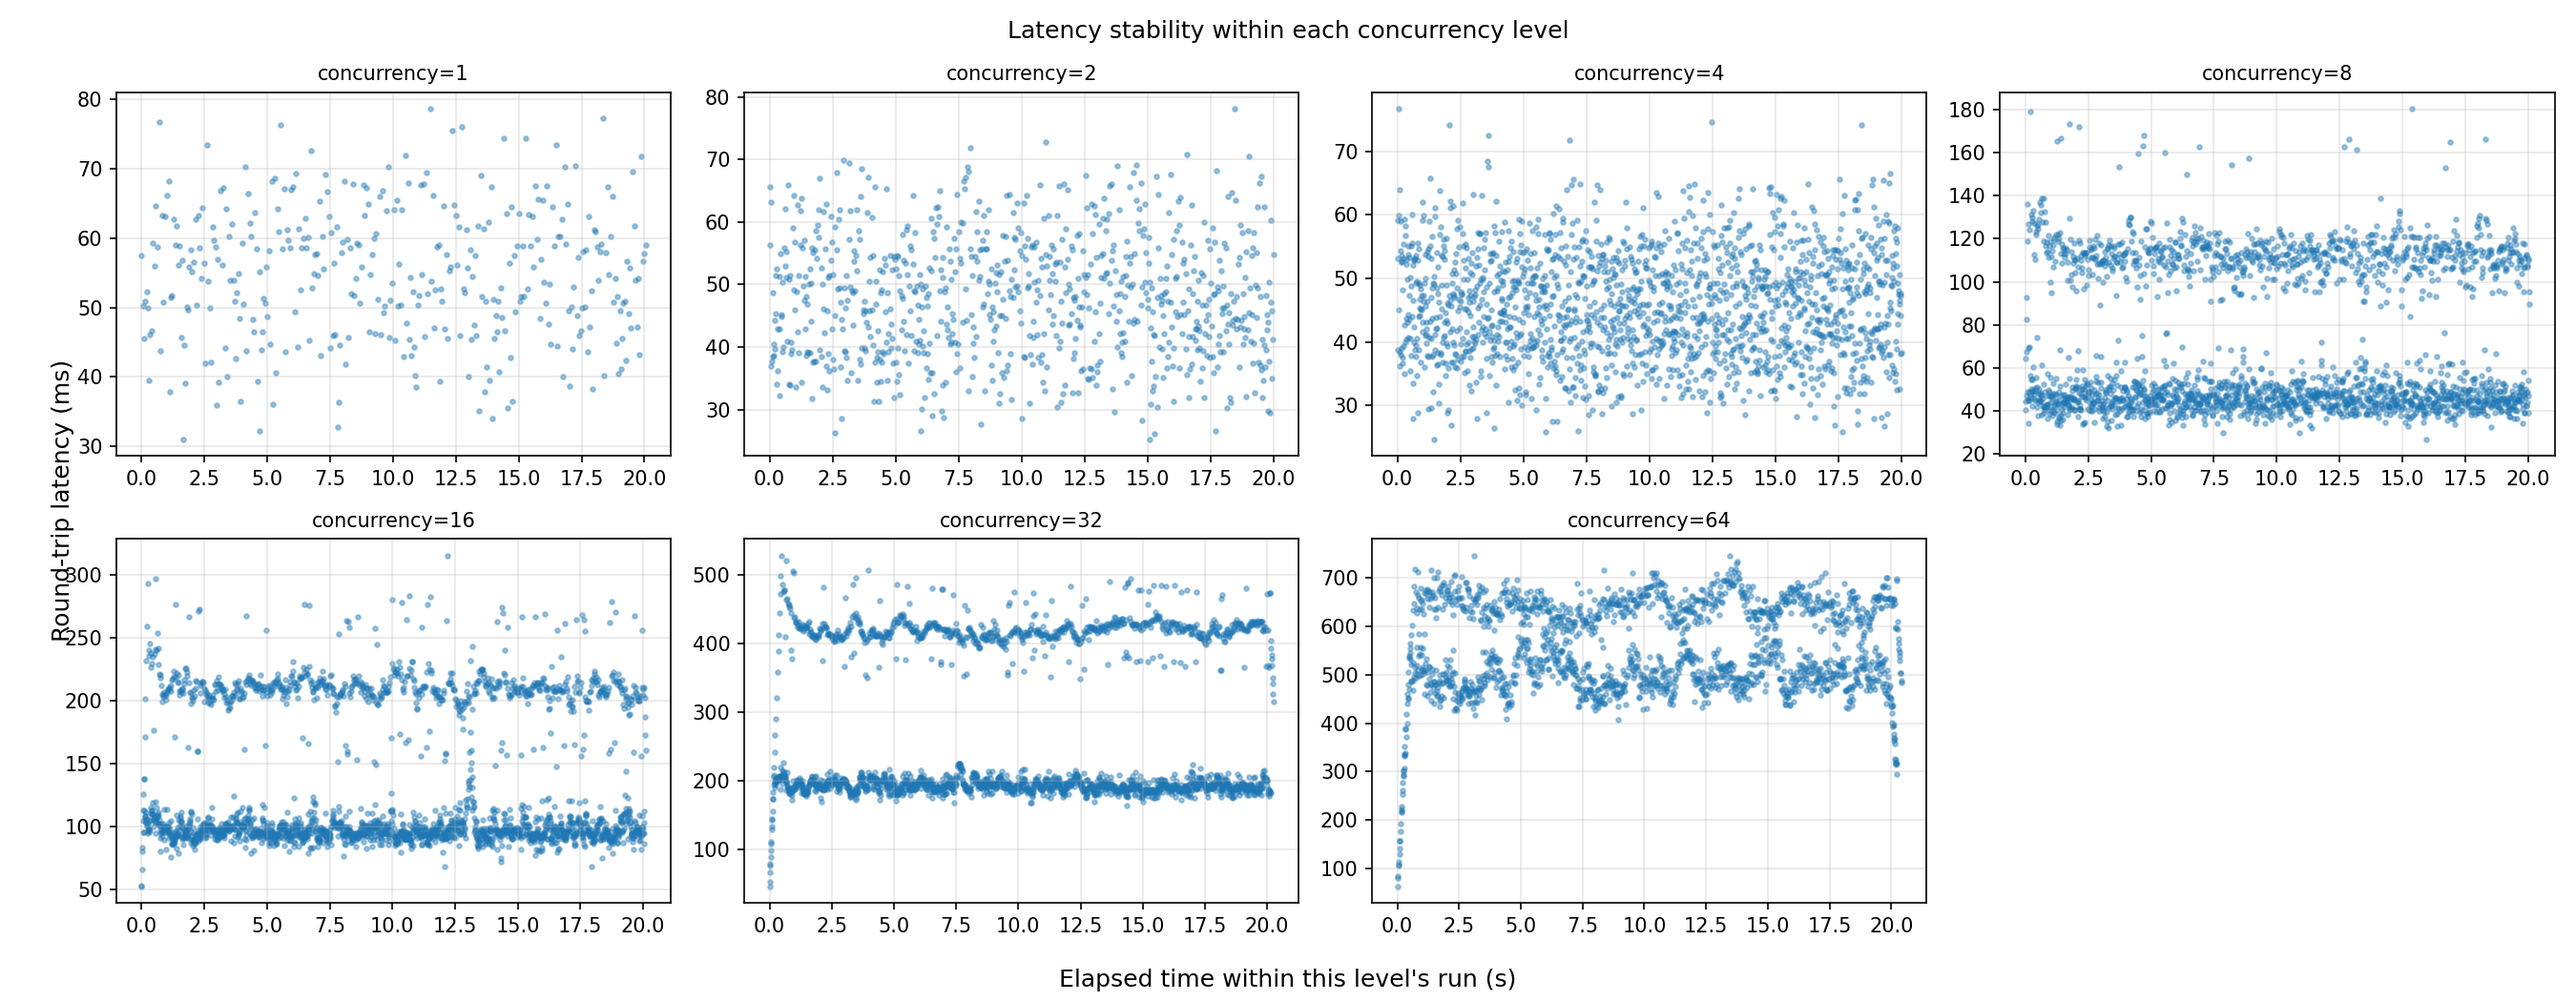
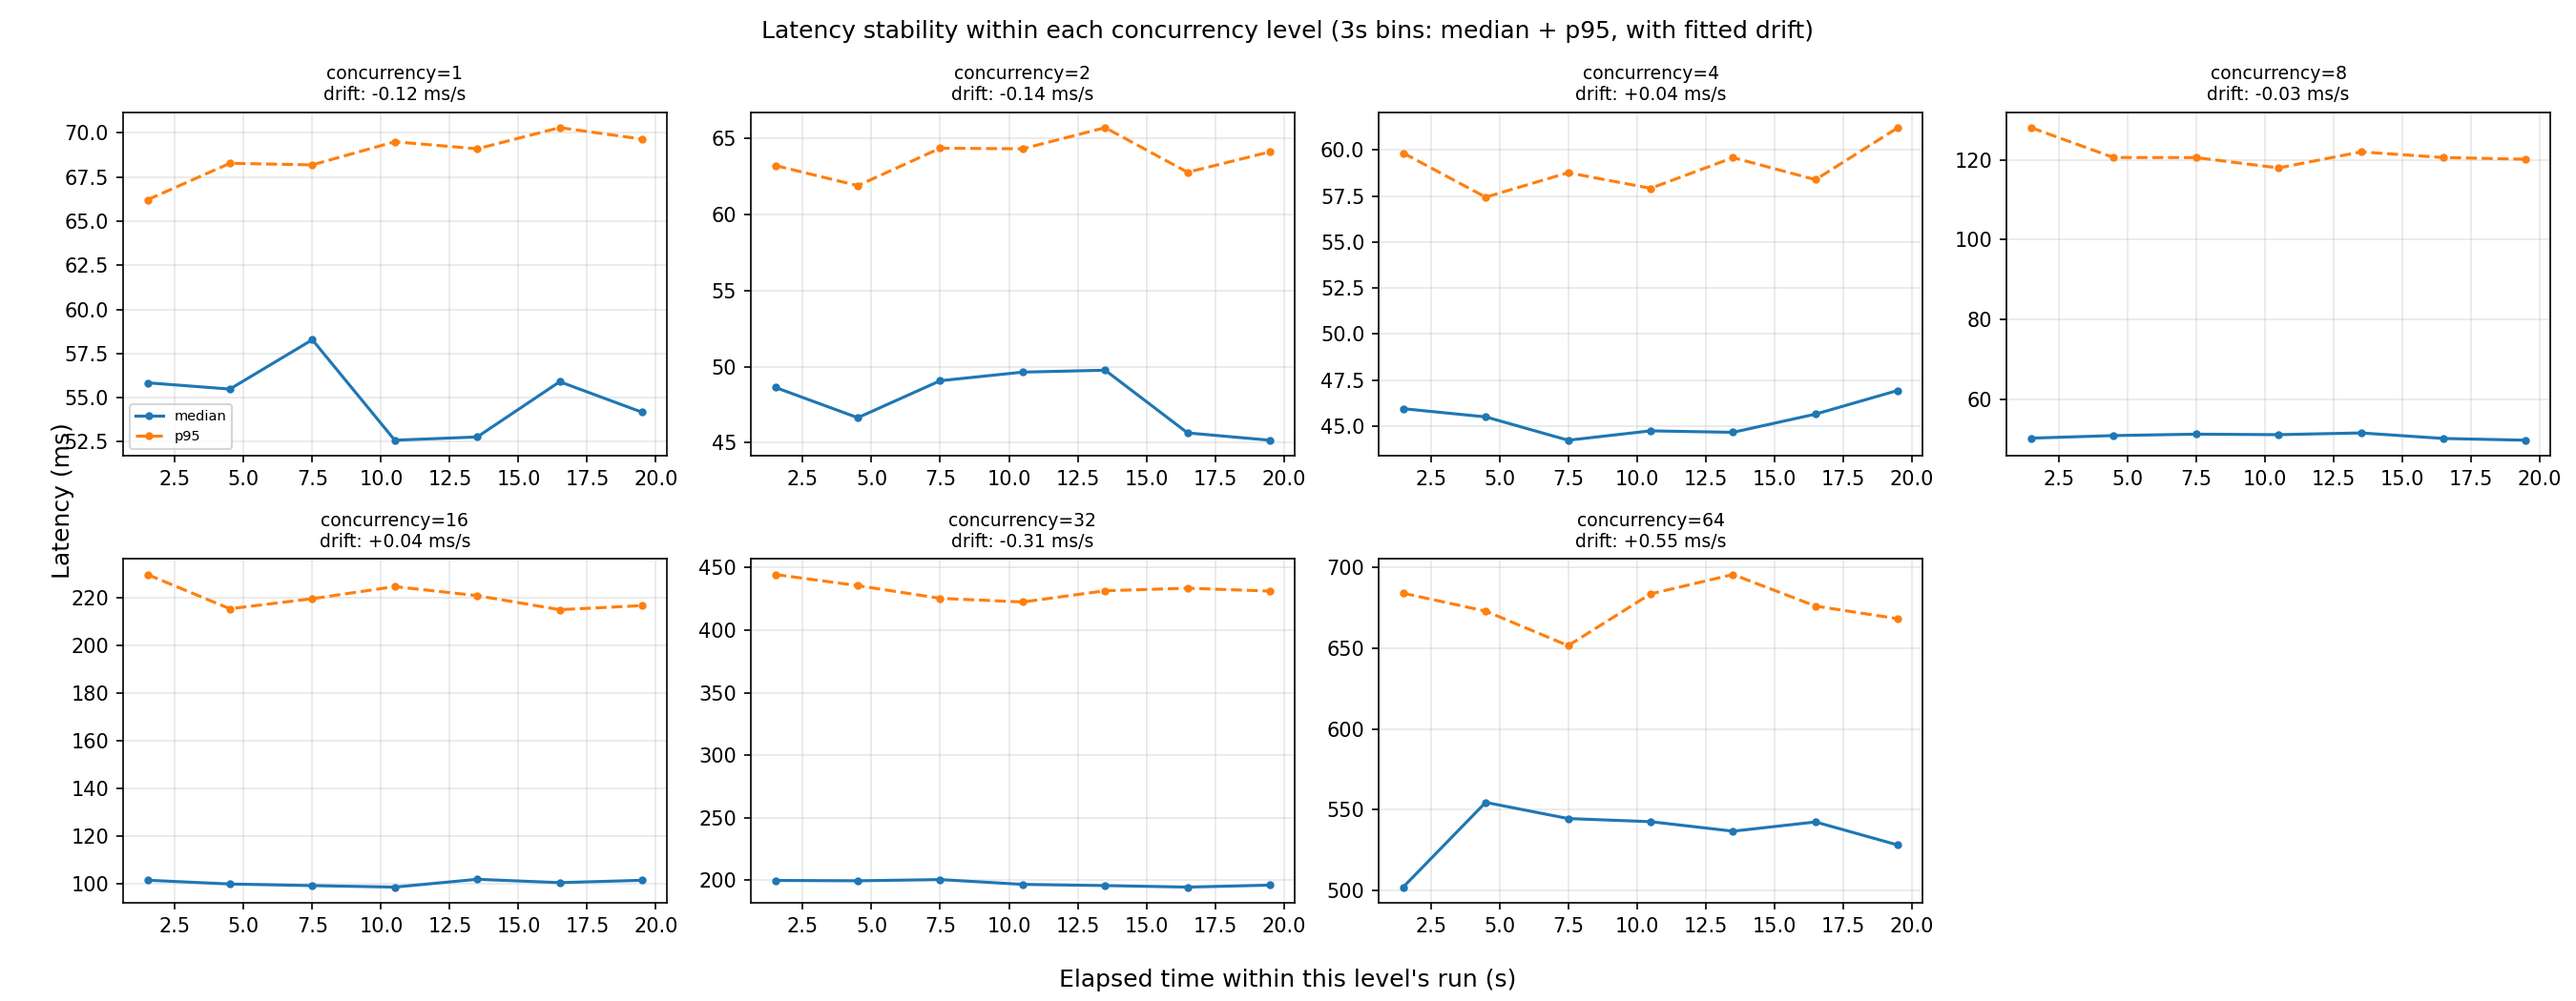
[feat](benchmarks): additional plots

diff --git a/benchmarks/plot_sweep.py b/benchmarks/plot_sweep.py
@@ -5,15 +5,17 @@ files into charts
 
 Usage:
     python3 plot_sweep.py benchmarks/results/sweep
-    (reads summary_c*.json and requests_c*.csv from that directory,
-    writes PNGs there too)
 """
 import csv
 import json
+import statistics
 import sys
 from pathlib import Path
 
 import matplotlib.pyplot as plt
+
+LATENCY_BIN_SECONDS = 3
+THROUGHPUT_BIN_SECONDS = 2
 
 
 def load_summaries(results_dir: Path):
@@ -29,6 +31,7 @@ def load_level_requests(results_dir: Path, concurrency: int):
     path = results_dir / f"requests_c{concurrency}.csv"
     if not path.exists():
         return [], []
+
     rows = []
     with open(path) as f:
         for row in csv.DictReader(f):
@@ -36,43 +39,46 @@ def load_level_requests(results_dir: Path, concurrency: int):
                 rows.append(row)
     if not rows:
         return [], []
+
     t0 = min(int(r["timestamp_ms"]) for r in rows)
     elapsed = [(int(r["timestamp_ms"]) - t0) / 1000.0 for r in rows]
     wall_ms = [float(r["wall_ms"]) for r in rows]
     return elapsed, wall_ms
 
 
-def plot_latency_drift(summaries, results_dir: Path):
-    n = len(summaries)
-    cols = min(4, n)
-    rows_n = (n + cols - 1) // cols
-    fig, axes = plt.subplots(rows_n, cols, figsize=(4.5 * cols, 3.5 * rows_n), squeeze=False)
-    any_data = False
-    for i, s in enumerate(summaries):
-        ax = axes[i // cols][i % cols]
-        elapsed, wall_ms = load_level_requests(results_dir, s["concurrency"])
-        if elapsed:
-            any_data = True
-            ax.scatter(elapsed, wall_ms, s=5, alpha=0.4, color="tab:blue")
-        ax.set_title(f"concurrency={s['concurrency']}", fontsize=10)
-        ax.grid(True, alpha=0.3)
+def percentile(sorted_vals, p):
+    if not sorted_vals:
+        return 0
+    idx = int(p / 100 * (len(sorted_vals) - 1))
+    return sorted_vals[idx]
 
-    for j in range(n, rows_n * cols):
-        axes[j // cols][j % cols].axis("off")
 
-    if not any_data:
-        print("no requests_c*.csv files with timestamp_ms found -- "
-              "run_sweep.sh needs to have been run with the updated loadgen")
-        plt.close(fig)
-        return
+def bin_by_time(elapsed_sec, values, bin_width):
+    if not elapsed_sec:
+        return [], []
+    max_t = max(elapsed_sec)
+    n_bins = int(max_t // bin_width) + 1
+    buckets = [[] for _ in range(n_bins)]
+    for t, v in zip(elapsed_sec, values):
+        buckets[int(t // bin_width)].append(v)
+    centers = [(i + 0.5) * bin_width for i in range(n_bins)]
+    return centers, buckets
 
-    fig.supxlabel("Elapsed time within this level's run (s)")
-    fig.supylabel("Round-trip latency (ms)")
-    fig.suptitle("Latency stability within each concurrency level")
-    fig.tight_layout()
-    out_path = results_dir / "latency_drift_by_level.png"
-    fig.savefig(out_path, dpi=150)
-    print(f"wrote {out_path}")
+
+def linear_slope(xs, ys):
+    n = len(xs)
+    if n < 2:
+        return 0.0
+    mean_x = sum(xs) / n
+    mean_y = sum(ys) / n
+    num = sum((x - mean_x) * (y - mean_y) for x, y in zip(xs, ys))
+    den = sum((x - mean_x) ** 2 for x in xs)
+    return num / den if den else 0.0
+
+
+def _save(fig, path: Path):
+    fig.savefig(path, dpi=150)
+    print(f"wrote {path}")
 
 
 def plot_latency_vs_concurrency(summaries, out_dir: Path):
@@ -80,6 +86,7 @@ def plot_latency_vs_concurrency(summaries, out_dir: Path):
     p50 = [s["latency_p50_ms"] for s in summaries]
     p95 = [s["latency_p95_ms"] for s in summaries]
     p99 = [s["latency_p99_ms"] for s in summaries]
+
     fig, ax = plt.subplots(figsize=(8, 5))
     ax.plot(concurrency, p50, marker="o", label="p50")
     ax.plot(concurrency, p95, marker="o", label="p95")
@@ -91,14 +98,13 @@ def plot_latency_vs_concurrency(summaries, out_dir: Path):
     ax.legend()
     ax.grid(True, alpha=0.3)
     fig.tight_layout()
-    out_path = out_dir / "latency_vs_concurrency.png"
-    fig.savefig(out_path, dpi=150)
-    print(f"wrote {out_path}")
+    _save(fig, out_dir / "latency_vs_concurrency.png")
 
 
 def plot_throughput_vs_concurrency(summaries, out_dir: Path):
     concurrency = [s["concurrency"] for s in summaries]
     throughput = [s["throughput_rps"] for s in summaries]
+
     fig, ax = plt.subplots(figsize=(8, 5))
     ax.plot(concurrency, throughput, marker="o", color="tab:green")
     ax.set_xlabel("Client concurrency (offered load)")
@@ -107,9 +113,7 @@ def plot_throughput_vs_concurrency(summaries, out_dir: Path):
     ax.set_xscale("log", base=2)
     ax.grid(True, alpha=0.3)
     fig.tight_layout()
-    out_path = out_dir / "throughput_vs_concurrency.png"
-    fig.savefig(out_path, dpi=150)
-    print(f"wrote {out_path}")
+    _save(fig, out_dir / "throughput_vs_concurrency.png")
 
 
 def plot_rejection_rate(summaries, out_dir: Path):
@@ -119,10 +123,12 @@ def plot_rejection_rate(summaries, out_dir: Path):
         total = s["total"]
         rejected = s.get("status_counts", {}).get("503", 0)
         rejection_pct.append(100.0 * rejected / total if total else 0.0)
+
     if all(p == 0 for p in rejection_pct):
         print("no rejections (503s) observed at any tested concurrency level -- "
               "try higher -levels in run_sweep.sh to actually exercise admission control")
         return
+
     fig, ax = plt.subplots(figsize=(8, 5))
     ax.plot(concurrency, rejection_pct, marker="o", color="tab:red")
     ax.set_xlabel("Client concurrency (offered load)")
@@ -131,9 +137,93 @@ def plot_rejection_rate(summaries, out_dir: Path):
     ax.set_xscale("log", base=2)
     ax.grid(True, alpha=0.3)
     fig.tight_layout()
-    out_path = out_dir / "rejection_rate_vs_concurrency.png"
-    fig.savefig(out_path, dpi=150)
-    print(f"wrote {out_path}")
+    _save(fig, out_dir / "rejection_rate_vs_concurrency.png")
+
+
+def plot_latency_drift(summaries, results_dir: Path):
+    n = len(summaries)
+    cols = min(4, n)
+    rows_n = (n + cols - 1) // cols
+    fig, axes = plt.subplots(rows_n, cols, figsize=(4.5 * cols, 3.5 * rows_n), squeeze=False)
+
+    any_data = False
+    for i, s in enumerate(summaries):
+        ax = axes[i // cols][i % cols]
+        elapsed, wall_ms = load_level_requests(results_dir, s["concurrency"])
+        title = f"concurrency={s['concurrency']}"
+
+        if elapsed:
+            centers, buckets = bin_by_time(elapsed, wall_ms, LATENCY_BIN_SECONDS)
+            valid = [(c, b) for c, b in zip(centers, buckets) if b]
+            if valid:
+                any_data = True
+                valid_centers = [c for c, b in valid]
+                medians = [statistics.median(b) for _, b in valid]
+                p95s = [percentile(sorted(b), 95) for _, b in valid]
+
+                ax.plot(valid_centers, medians, marker="o", markersize=3,
+                        color="tab:blue", label="median")
+                ax.plot(valid_centers, p95s, marker="o", markersize=3,
+                        color="tab:orange", linestyle="--", label="p95")
+
+                if len(valid_centers) >= 2:
+                    slope = linear_slope(valid_centers, medians)
+                    title += f"\ndrift: {slope:+.2f} ms/s"
+
+        ax.set_title(title, fontsize=9)
+        ax.grid(True, alpha=0.3)
+        if i == 0:
+            ax.legend(fontsize=7)
+
+    for j in range(n, rows_n * cols):
+        axes[j // cols][j % cols].axis("off")
+
+    if not any_data:
+        print("no requests_c*.csv files with usable timestamp_ms data found -- "
+              "run_sweep.sh needs to have been run with the updated loadgen")
+        plt.close(fig)
+        return
+
+    fig.supxlabel("Elapsed time within this level's run (s)")
+    fig.supylabel("Latency (ms)")
+    fig.suptitle(f"Latency stability within each concurrency level "
+                 f"({LATENCY_BIN_SECONDS}s bins: median + p95, with fitted drift)")
+    fig.tight_layout()
+    _save(fig, results_dir / "latency_drift_by_level.png")
+
+
+def plot_throughput_by_level(summaries, results_dir: Path):
+    fig, ax = plt.subplots(figsize=(10, 6))
+    cmap = plt.cm.viridis
+    n = len(summaries)
+    any_data = False
+
+    for i, s in enumerate(summaries):
+        elapsed, _ = load_level_requests(results_dir, s["concurrency"])
+        if not elapsed:
+            continue
+        centers, buckets = bin_by_time(elapsed, elapsed, THROUGHPUT_BIN_SECONDS)
+        rps = [len(b) / THROUGHPUT_BIN_SECONDS for b in buckets]
+        if not centers:
+            continue
+        any_data = True
+        color = cmap(i / max(1, n - 1))
+        ax.plot(centers, rps, marker="o", markersize=3, color=color,
+                label=f"concurrency={s['concurrency']}")
+
+    if not any_data:
+        print("no requests_c*.csv files with usable timestamp_ms data found -- "
+              "run_sweep.sh needs to have been run with the updated loadgen")
+        plt.close(fig)
+        return
+
+    ax.set_xlabel("Elapsed time within level's run (s)")
+    ax.set_ylabel(f"Throughput (req/s, {THROUGHPUT_BIN_SECONDS}s bins)")
+    ax.set_title("Throughput over time, by concurrency level")
+    ax.legend(ncol=2, fontsize=8)
+    ax.grid(True, alpha=0.3)
+    fig.tight_layout()
+    _save(fig, results_dir / "throughput_over_time_by_level.png")
 
 
 def print_baseline(summaries):
@@ -152,6 +242,7 @@ def main():
     if len(sys.argv) != 2:
         print(f"usage: {sys.argv[0]} <results_dir>", file=sys.stderr)
         sys.exit(1)
+
     results_dir = Path(sys.argv[1])
     summaries = load_summaries(results_dir)
     if not summaries:
@@ -160,11 +251,13 @@ def main():
 
     print(f"Loaded {len(summaries)} sweep levels: "
           f"{[s['concurrency'] for s in summaries]}")
+
     print_baseline(summaries)
     plot_latency_vs_concurrency(summaries, results_dir)
     plot_throughput_vs_concurrency(summaries, results_dir)
     plot_rejection_rate(summaries, results_dir)
     plot_latency_drift(summaries, results_dir)
+    plot_throughput_by_level(summaries, results_dir)
 
 
 if __name__ == "__main__":
